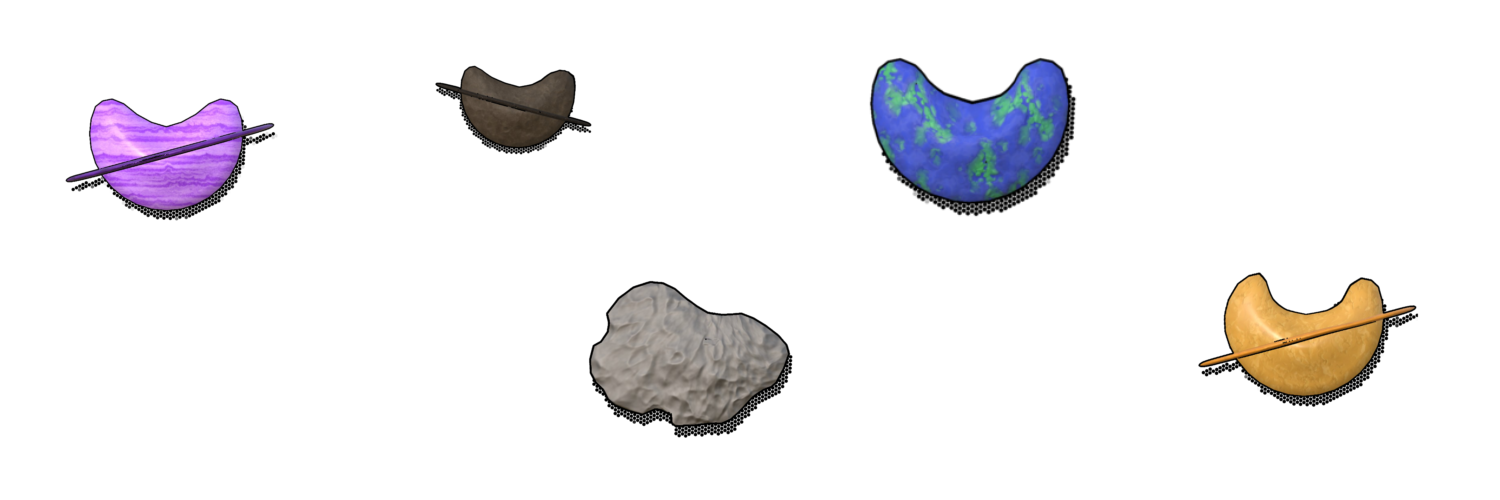
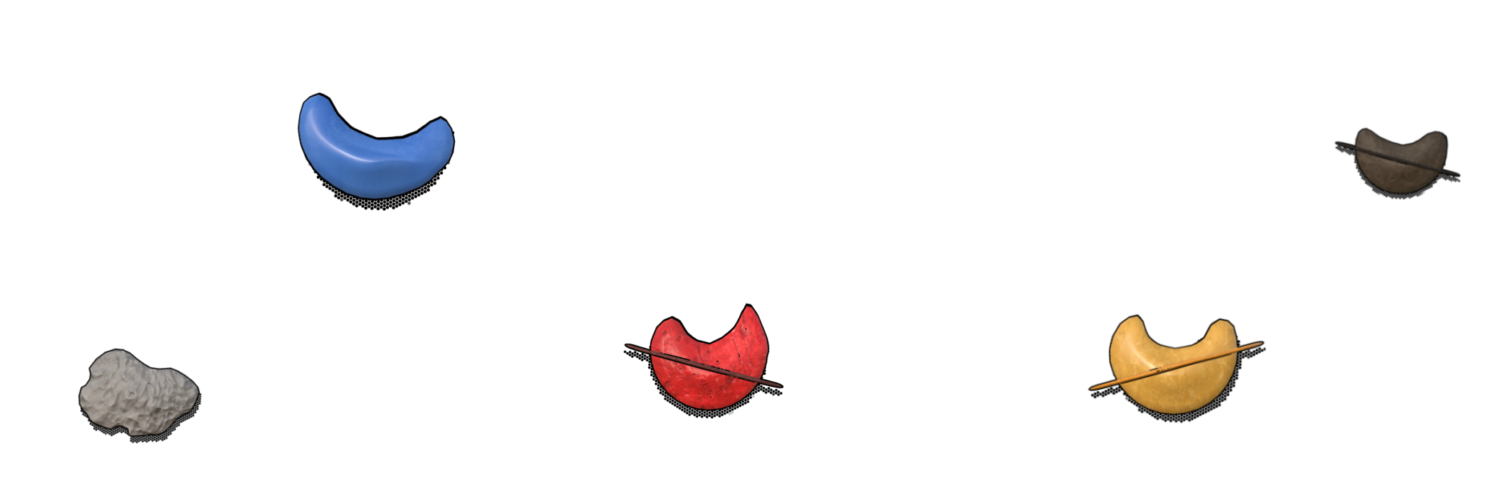
COLISIOOOOOOOOOOON CHUNK TRANSITION

diff --git a/Game/PlayScene.cpp b/Game/PlayScene.cpp
@@ -100,8 +100,8 @@ void PlayScene::Update(float dt)
         float currentY = player->GetTransform().pos.y;
 
         // score selon la hauteur
-        if (currentY < -850.f) currentScore += score;
-        if (currentY < -1200.f) currentScore += score * 1.5f;
+        if (currentY < -1200.f) currentScore += score;
+        if (currentY < -1600.f) currentScore += score * 1.5f;
         if (currentY < -2500.f) currentScore += score * 2.f;
         if (currentY < -3500.f) currentScore += score * 2.5f;
         std::cout << "Score : " << currentScore << " posY : " << currentY << std::endl;
